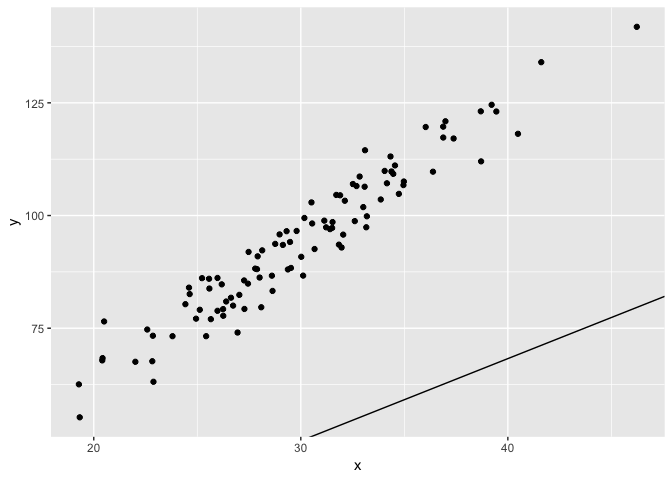
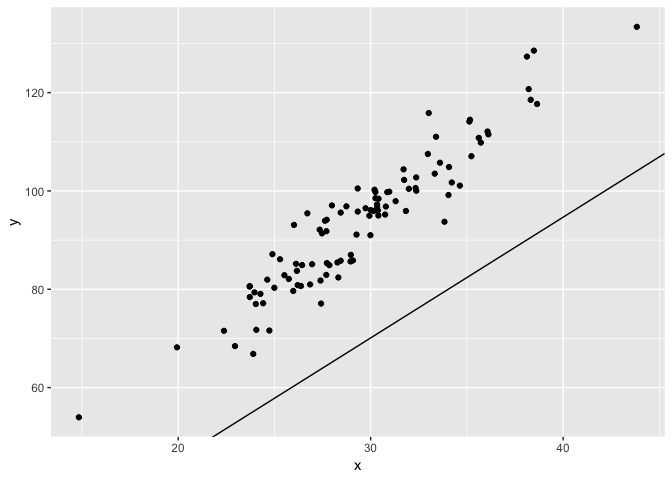
Added some descriptions

diff --git a/scripts/01_genetic_linreg.md b/scripts/01_genetic_linreg.md
@@ -40,7 +40,7 @@ data.frame(x, y) %>%
 beta
 ```
 
-    ## [1] -4.699591  1.823945
+    ## [1] -3.590564  2.456406
 
 ``` r
 # Model prediction
@@ -52,7 +52,7 @@ rmse <- sqrt(mean((y-yhat)^2))
 rmse
 ```
 
-    ## [1] 44.81166
+    ## [1] 25.27904
 
 Now with simple GA
 
@@ -97,39 +97,25 @@ data.frame(x, y) %>%
 head(top_pop)
 ```
 
-    ##          beta0    beta1     rmse
-    ## 23   0.5488911 3.122328 4.588295
-    ## 497  2.5171267 3.040468 4.603602
-    ## 368  4.3638219 3.007564 4.613082
-    ## 569 -0.1676600 3.156144 4.614647
-    ## 198  4.5977039 3.002063 4.622189
-    ## 470 -0.6070796 3.171487 4.624350
+    ##        beta0    beta1     rmse
+    ## 670 7.605998 2.924010 4.703048
+    ## 332 9.248124 2.853227 4.712000
+    ## 506 4.345562 3.009461 4.739341
+    ## 320 5.471338 3.005883 4.740559
+    ## 526 3.377788 3.048076 4.742082
+    ## 429 3.120599 3.053852 4.752048
 
-``` r
-paste("Estimate for beta0 is:  " , mean(top_pop$beta0))
-```
+Let's look at the averages and standard deviations of the top betas
 
-    ## [1] "Estimate for beta0 is:   6.13032196598736"
+    ## [1] "Estimate for beta0 is:   6.30668124315131"
 
-``` r
-paste("Estimate for beta1 is:  " , mean(top_pop$beta1))
-```
+    ## [1] "Estimate for beta1 is:   2.95501945779995"
 
-    ## [1] "Estimate for beta1 is:   2.93614639936588"
+    ## [1] "Estimate for beta0 SE is:   3.59932735140266"
 
-``` r
-paste("Estimate for beta0 SE is:  ", sd(top_pop$beta0))
-```
+    ## [1] "Estimate for beta1 SE is:   0.147730157417931"
 
-    ## [1] "Estimate for beta0 SE is:   4.05071141167123"
-
-``` r
-paste("Estimate for beta1 SE is:  ", sd(top_pop$beta1))
-```
-
-    ## [1] "Estimate for beta1 SE is:   0.150721040328184"
-
-Benchmark against lm
+And now we can compare that with the output of lm
 
 ``` r
 fit <- lm(y ~ x)
@@ -142,15 +128,15 @@ summary(fit)
     ## 
     ## Residuals:
     ##      Min       1Q   Median       3Q      Max 
-    ## -10.7376  -3.3919   0.2349   3.3356  11.5238 
+    ## -12.5637  -3.1223  -0.1331   3.2483  11.9405 
     ## 
     ## Coefficients:
     ##             Estimate Std. Error t value Pr(>|t|)    
-    ## (Intercept)  1.99208    2.72864    0.73    0.467    
-    ## x            3.07228    0.08971   34.24   <2e-16 ***
+    ## (Intercept)   7.3864     3.1240   2.364     0.02 *  
+    ## x             2.9233     0.1047  27.927   <2e-16 ***
     ## ---
     ## Signif. codes:  0 '***' 0.001 '**' 0.01 '*' 0.05 '.' 0.1 ' ' 1
     ## 
-    ## Residual standard error: 4.627 on 98 degrees of freedom
-    ## Multiple R-squared:  0.9229, Adjusted R-squared:  0.9221 
-    ## F-statistic:  1173 on 1 and 98 DF,  p-value: < 2.2e-16
+    ## Residual standard error: 4.745 on 98 degrees of freedom
+    ## Multiple R-squared:  0.8884, Adjusted R-squared:  0.8872 
+    ## F-statistic: 779.9 on 1 and 98 DF,  p-value: < 2.2e-16
